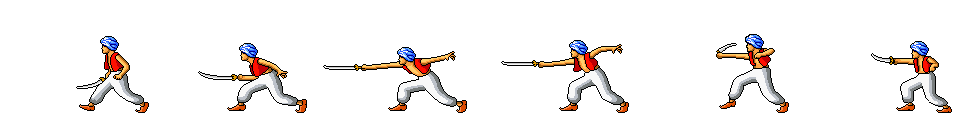
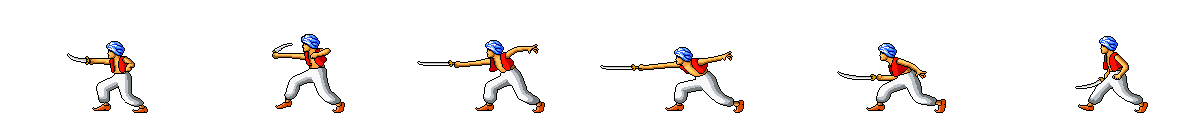
implemented parry (still needs some work) fixed fightStrike spritesheet to align with the others

diff --git a/Prince of Persia/Character.cpp b/Prince of Persia/Character.cpp
@@ -63,6 +63,30 @@ bool Character::isImmune() {
 
 }
 
+bool Character::checkParryBy(Character* enemy) {
+
+	if (this->getY() != enemy->getY())           { return false; }
+	if (this->getAnim() != fightStrike)          { return false; }
+	if (this->getAnim()->getCurrentFrame() >= 2) { return false; }
+
+	if (enemy->isParying()) { 
+		this->setCurrentAnim(fightParry);
+		this->getAnim()->setCurrentFrame(enemy->getAnim()->getCurrentFrame());
+		return true;
+	}
+	return false;
+}
+
+bool Character::isParying()
+{
+	if (this->getAnim() == fightParry) {
+		if (this->getAnim()->getCurrentFrame() < 2) {
+			return true;
+		}
+	}
+	return false;
+}
+
 bool Character::isHitting(Character* enemy)
 {
 	

diff --git a/Prince of Persia/Game.cpp b/Prince of Persia/Game.cpp
@@ -414,6 +414,7 @@ void Game::CheckCombatCollision()
 	std::list<Character*>* guards = level->getGuards();
 	for (std::list<Character*>::iterator i = guards->begin(); i != guards->end(); i++) {
 		Character* guard = *i;
+		guard->checkParryBy(prince);
 		if (guard->isHitting(prince)) {
 			prince->Hurt();
 		}
@@ -421,8 +422,10 @@ void Game::CheckCombatCollision()
 
 	for (std::list<Character*>::iterator i = guards->begin(); i != guards->end(); i++) {
 		Character* guard = *i;
-		if (prince->isHitting(guard)) {
-			guard->Hurt();
+		if (!prince->checkParryBy(guard)) {
+			if (prince->isHitting(guard)) {
+				guard->Hurt();
+			}
 		}
 	}
 }

diff --git a/Prince of Persia/Prince.cpp b/Prince of Persia/Prince.cpp
@@ -44,7 +44,7 @@ Prince::Prince() {
 
 
 	fightStep->setDisplayTime(100);
-	fightParry->setDisplayTime(120);
+	fightParry->setDisplayTime(80); //120
 	fightStrike->setDisplayTime(100);
 	fightStart->setDisplayTime(100);
 	fightFinish->setDisplayTime(100);
@@ -80,7 +80,7 @@ Prince::Prince() {
 
 	fightStep->setReverse();
 	fightParry->setReverse();
-	fightStrike->setReverse();
+	//fightStrike->setReverse();
 	fightStart->setReverse();
 	fightFinish->setReverse();
 

diff --git a/Prince of Persia/Guard.cpp b/Prince of Persia/Guard.cpp
@@ -20,7 +20,7 @@ Guard::Guard(int x, int y) {
 
 	fightStep->setReverse();
 	fightParry->setReverse();
-	fightStrike->setReverse();
+	//fightStrike->setReverse();
 
 	facingRight = false;
 

diff --git a/Prince of Persia/Character.h b/Prince of Persia/Character.h
@@ -17,6 +17,8 @@ public:
 
 	void SwitchFacing();
 	bool isImmune();
+	bool checkParryBy(Character* enemy);
+	bool isParying();
 	bool isHitting(Character * enemy);
 
 	Animation* idle;
